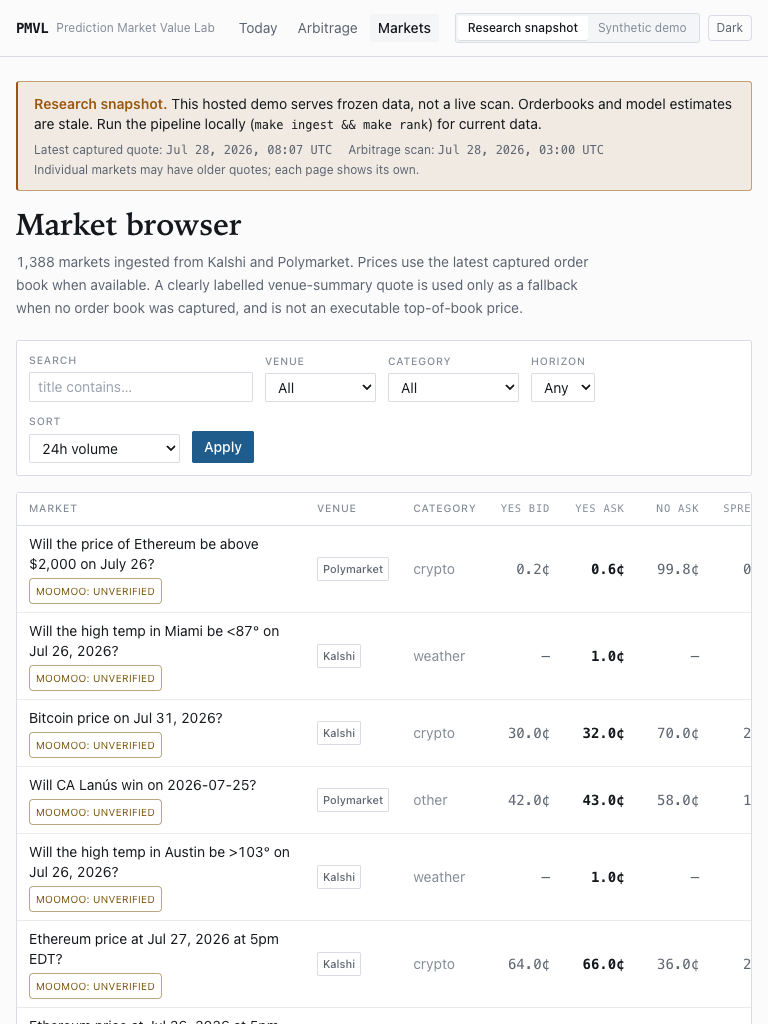
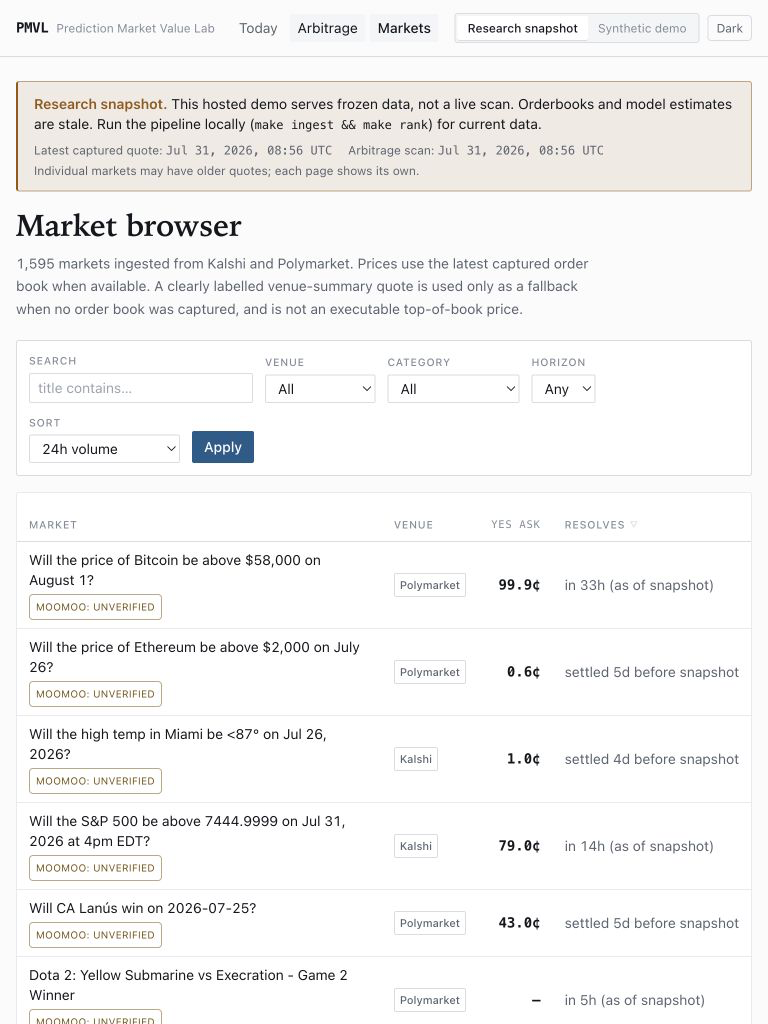
docs: record markets responsive verification

diff --git a/docs/frontend-design-audit.md b/docs/frontend-design-audit.md
@@ -175,3 +175,45 @@ Follows the brief's Phase B10, narrowed by the findings above:
   would help (`/system` publication state) it is documented here rather than added.
 - No pipeline workflow change, no snapshot mutation.
 - All existing API calls, route shapes and query parameters preserved.
+
+## Post-publication responsive closure
+
+Re-audited after the first compressed Snapshot was published and this branch was
+rebased onto `main` (2026-07-31 UTC). The remaining `/markets` blocker is closed
+without changing the API, pipeline, or Snapshot.
+
+- Below Tailwind's `md` breakpoint, the eleven-column table is replaced by one
+  divided, compact list. Each row keeps contract identity, venue, status, YES ask,
+  and resolution visible; native `details` / `summary` disclosures carry spread,
+  depth, model-coverage routing, quote age/status, and venue coverage.
+- Model coverage is not invented from unrelated fields. The market-index API does
+  not expose a per-row coverage value, so the disclosure says so and links to the
+  existing contract analysis where prediction coverage is source-backed.
+- At 768px, the semantic sortable table remains, but only Market, Venue, YES ask,
+  and Resolves are shown. Columns reveal progressively at `lg` and `xl`; the Market
+  identity remains sticky and numeric cells remain right-aligned.
+- Root-level horizontal clipping was removed. Wide desktop content, where needed,
+  is reachable inside `.table-wrap` rather than hidden from the page.
+- A stale venue summary remains visible on mobile when the captured order book
+  disagrees with it.
+
+Measured in Chrome against the production-mode branch build and the published
+compressed Snapshot:
+
+| Viewport | Before: root overflow | After: root overflow | Active representation |
+|---|---:|---:|---|
+| 375 x 812 | not previously recorded | 0px | mobile list; 50 disclosures |
+| 390 x 844 | 397px | 0px | mobile list; desktop table hidden |
+| 768 x 1024 | 131px | 0px | four-column table; mobile list hidden |
+| 1440 x 900 | 0px | 0px | all eleven columns; internal table scroll only |
+
+The first mobile disclosure opened with the Enter key. At 768px the measured
+Market cell was `position: sticky`, the numeric cell was right-aligned, and the
+table wrapper fit exactly (`734px` client and scroll width). At 1440px all eleven
+headers were visible while the wrapper contained its own overflow (`1246px` client,
+`1345px` scroll width), with no document-level overflow.
+
+Accepted screenshots:
+
+- [`markets-mobile-dark.png`](screenshots/pr-8/markets-mobile-dark.png) — 390 x 844
+- [`markets-768-light.png`](screenshots/pr-8/markets-768-light.png) — 768 x 1024
